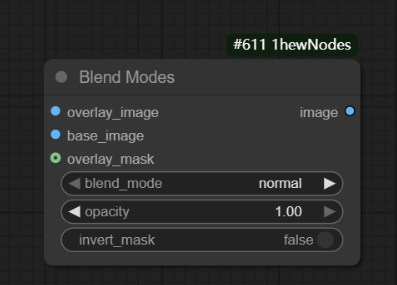
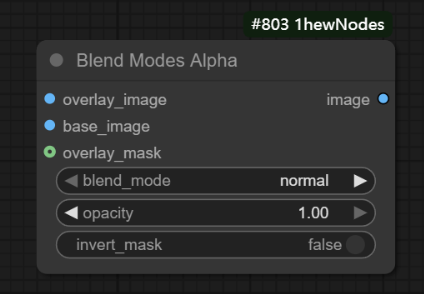
添加 Image Crop Square 节点，修复 Blend Modes Alpha 节点名称

Changed region(s): [[0.0907, 0.0561, 0.9068, 0.8982], [0.7557, 0.2246, 0.937, 0.9263], [0.0907, 0.1684, 0.1511, 0.2246]]

diff --git a/nodes/image.py b/nodes/image.py
@@ -177,6 +177,141 @@ class ImageEditStitch:
         return combined_image, combined_mask, split_mask
 
 
+class ImageCropSquare:
+    """
+    图像方形裁剪器 - 根据遮罩裁切图像为方形，支持放大系数和填充颜色
+    """
+
+    @classmethod
+    def INPUT_TYPES(cls):
+        return {
+            "required": {
+                "image": ("IMAGE",),
+                "mask": ("MASK",),
+                "scale_factor": ("FLOAT", {"default": 1.0, "min": 0.1, "max": 3.0, "step": 0.01, "label": "放大系数"}),
+                "fill_color": ("FLOAT", {"default": 1.0, "min": 0.0, "max": 1.0, "step": 0.01, "label": "填充颜色(0黑-1白)"})
+            }
+        }
+
+    RETURN_TYPES = ("IMAGE",)
+    RETURN_NAMES = ("image",)
+    FUNCTION = "image_crop_square"
+    CATEGORY = "1hewNodes/image"
+
+    def image_crop_square(self, image, mask, scale_factor=1.0, fill_color=1.0):
+        # 获取图像尺寸
+        batch_size, height, width, channels = image.shape
+
+        # 创建输出图像列表
+        output_images = []
+
+        for b in range(batch_size):
+            # 将图像转换为PIL格式
+            if image.is_cuda:
+                img_np = (image[b].cpu().numpy() * 255).astype(np.uint8)
+                mask_np = (mask[b % mask.shape[0]].cpu().numpy() * 255).astype(np.uint8)
+            else:
+                img_np = (image[b].numpy() * 255).astype(np.uint8)
+                mask_np = (mask[b % mask.shape[0]].numpy() * 255).astype(np.uint8)
+
+            img_pil = Image.fromarray(img_np)
+            mask_pil = Image.fromarray(mask_np).convert("L")
+
+            # 调整遮罩大小以匹配图像 - 使用填充而非缩放
+            if img_pil.size != mask_pil.size:
+                # 创建一个与图像相同大小的空白遮罩
+                new_mask = Image.new("L", img_pil.size, 0)
+
+                # 计算居中位置
+                paste_x = max(0, (img_pil.width - mask_pil.width) // 2)
+                paste_y = max(0, (img_pil.height - mask_pil.height) // 2)
+
+                # 将原始遮罩粘贴到中心位置
+                new_mask.paste(mask_pil, (paste_x, paste_y))
+                mask_pil = new_mask
+
+            # 找到遮罩中非零区域的边界框
+            bbox = self.get_bbox(mask_pil)
+
+            # 如果没有找到有效区域，返回原始图像
+            if bbox is None:
+                output_images.append(image[b])
+                continue
+
+            # 计算边界框的宽度和高度
+            bbox_width = bbox[2] - bbox[0]
+            bbox_height = bbox[3] - bbox[1]
+            
+            # 计算中心点
+            center_x = (bbox[0] + bbox[2]) // 2
+            center_y = (bbox[1] + bbox[3]) // 2
+            
+            # 计算方形边长 (取最大值)
+            square_size = max(bbox_width, bbox_height)
+            
+            # 应用放大系数
+            square_size = int(square_size * scale_factor)
+            
+            # 计算方形边界框的左上角和右下角坐标
+            square_x1 = center_x - square_size // 2
+            square_y1 = center_y - square_size // 2
+            square_x2 = square_x1 + square_size
+            square_y2 = square_y1 + square_size
+            
+            # 创建填充颜色
+            fill_color_rgb = int(fill_color * 255)
+            bg_color = (fill_color_rgb, fill_color_rgb, fill_color_rgb)
+            
+            # 创建方形画布
+            square_img = Image.new("RGB", (square_size, square_size), bg_color)
+            
+            # 计算粘贴位置
+            paste_x = max(0, -square_x1)
+            paste_y = max(0, -square_y1)
+            
+            # 计算从原图裁剪的区域
+            crop_x1 = max(0, square_x1)
+            crop_y1 = max(0, square_y1)
+            crop_x2 = min(img_pil.width, square_x2)
+            crop_y2 = min(img_pil.height, square_y2)
+            
+            # 裁剪原图并粘贴到方形画布上
+            if crop_x1 < crop_x2 and crop_y1 < crop_y2:
+                cropped_region = img_pil.crop((crop_x1, crop_y1, crop_x2, crop_y2))
+                square_img.paste(cropped_region, (paste_x, paste_y))
+            
+            # 转换回tensor
+            square_img_np = np.array(square_img).astype(np.float32) / 255.0
+            output_images.append(torch.from_numpy(square_img_np))
+
+        # 合并批次
+        if output_images:
+            output_image_tensor = torch.stack(output_images)
+            return (output_image_tensor,)
+        else:
+            # 如果没有有效的输出图像，返回原始图像
+            return (image,)
+
+    def get_bbox(self, mask_pil):
+        # 将遮罩转换为numpy数组
+        mask_np = np.array(mask_pil)
+
+        # 找到非零区域的坐标
+        rows = np.any(mask_np > 10, axis=1)
+        cols = np.any(mask_np > 10, axis=0)
+
+        # 如果没有找到非零区域，返回None
+        if not np.any(rows) or not np.any(cols):
+            return None
+
+        # 获取边界框坐标
+        y_min, y_max = np.where(rows)[0][[0, -1]]
+        x_min, x_max = np.where(cols)[0][[0, -1]]
+
+        # 返回边界框 (left, top, right, bottom)
+        return (x_min, y_min, x_max + 1, y_max + 1)
+
+
 class ImageCropWithBBox:
     """
     图像裁切器增强版 - 根据遮罩裁切图像，并返回边界框信息以便后续粘贴回原位置
@@ -1257,6 +1392,7 @@ class ImagePlot:
 
 NODE_CLASS_MAPPINGS = {
     "ImageEditStitch": ImageEditStitch,
+    "ImageCropSquare": ImageCropSquare,
     "ImageCropWithBBox": ImageCropWithBBox,
     "CroppedImagePaste": CroppedImagePaste,
     "ImageBlendModesByCSS": ImageBlendModesByCSS,
@@ -1267,6 +1403,7 @@ NODE_CLASS_MAPPINGS = {
 
 NODE_DISPLAY_NAME_MAPPINGS = {
     "ImageEditStitch": "Image Edit Stitch",
+    "ImageCropSquare": "Image Crop Square",
     "ImageCropWithBBox": "Image Crop With BBox",
     "CroppedImagePaste": "Cropped Image Paste",
     "ImageBlendModesByCSS": "Image Blend Modes By CSS",

diff --git a/nodes/adobe.py b/nodes/adobe.py
@@ -240,7 +240,7 @@ class LumaMatte:
         # 默认返回白色
         return (255, 255, 255)
 
-class BlendModes:
+class BlendModesAlpha:
     """
     图层叠加模式 - 支持基础图层输入，控制叠加模式和透明度强度
     """
@@ -713,11 +713,11 @@ class BlendModes:
 NODE_CLASS_MAPPINGS = {
     "Solid": Solid,
     "LumaMatte": LumaMatte,
-    "BlendModes": BlendModes,
+    "BlendModesAlpha": BlendModesAlpha,
 }
 
 NODE_DISPLAY_NAME_MAPPINGS = {
     "Solid": "Solid",
     "LumaMatte": "Luma Matte",
-    "BlendModes": "Blend Modes",
+    "BlendModesAlpha": "Blend Modes Alpha",
 }

diff --git a/README.md b/README.md
@@ -83,7 +83,7 @@
 > > >
 > > > 控制透明区域的颜色，从0到1表示从黑色到白色
 
-#### 1.3 Blend Modes（混合模式）
+#### 1.3 Blend Modes Alpha（混合模式透明度）
 
 > <img src="imgs/Blend Modes.png" alt="Blend Modes" style="zoom:80%;" />
 
@@ -137,7 +137,13 @@
 > > >
 > > > 控制匹配尺寸后，填充区域的颜色，从0到1表示从黑色到白色
 
-#### 2.2 Image Crop With BBox （图片裁剪_带裁剪边界框）
+#### 2.2  Image Crop Square（图片裁剪方形）
+
+> <img src="imgs/Image Crop Square.png" alt="Image Crop Square" style="zoom:80%;" />
+
+
+
+#### 2.3 Image Crop With BBox （图片裁剪_带裁剪边界框）
 
 > <img src="imgs/Image Crop With BBox.png" alt="Image Crop With BBox" style="zoom: 50%;" />
 >
@@ -185,7 +191,7 @@
 > >
 > > > <img src="imgs/Image Crop With BBox_2.png" alt="Image Crop With BBox_2" style="zoom:50%;" />
 
-#### 2.3 Cropped Image Paste（裁剪图片拼贴）
+#### 2.4 Cropped Image Paste（裁剪图片拼贴）
 
 > 将 `Image Crop With BBox` 裁剪后的图像，拼接回源图
 >
@@ -219,15 +225,15 @@
 > >
 > > > 拼贴块的透明度
 
-#### 2.4 Image Blend Modes By CSS （图片混合模式 CSS）
+#### 2.5 Image Blend Modes By CSS （图片混合模式 CSS）
 
 > <img src="imgs/Image Blend Modes By CSS.png" alt="Image Blend Modes By CSS" style="zoom:80%;" />
 
-#### 2.5 Image Detail HL Freq Separation（图像细节高低频分离）
+#### 2.6 Image Detail HL Freq Separation（图像细节高低频分离）
 
-> ![image-20250512221605282](imgs/image-20250512221605282.png)
+> <img src="imgs/Image Detail HL Freq Separation.png" alt="Image Detail HL Freq Separation" style="zoom:80%;" />
 
-#### 2.6 Image Add Label（图像添加标签）
+#### 2.7 Image Add Label（图像添加标签）
 
 > 为图像添加文本标签，支持上下左右四个方向
 >
@@ -273,9 +279,9 @@
 > > >
 > > > 默认【top】，表示标签在图像顶部
 
-#### 2.7 Image Plot（图像绘制）
+#### 2.8 Image Plot（图像绘制）
 
-> ![image-20250512221704068](imgs/image-20250512221704068.png)
+> <img src="imgs/Image Plot.png" alt="Image Plot" style="zoom: 80%;" />
 
 ### 3. mask
 
